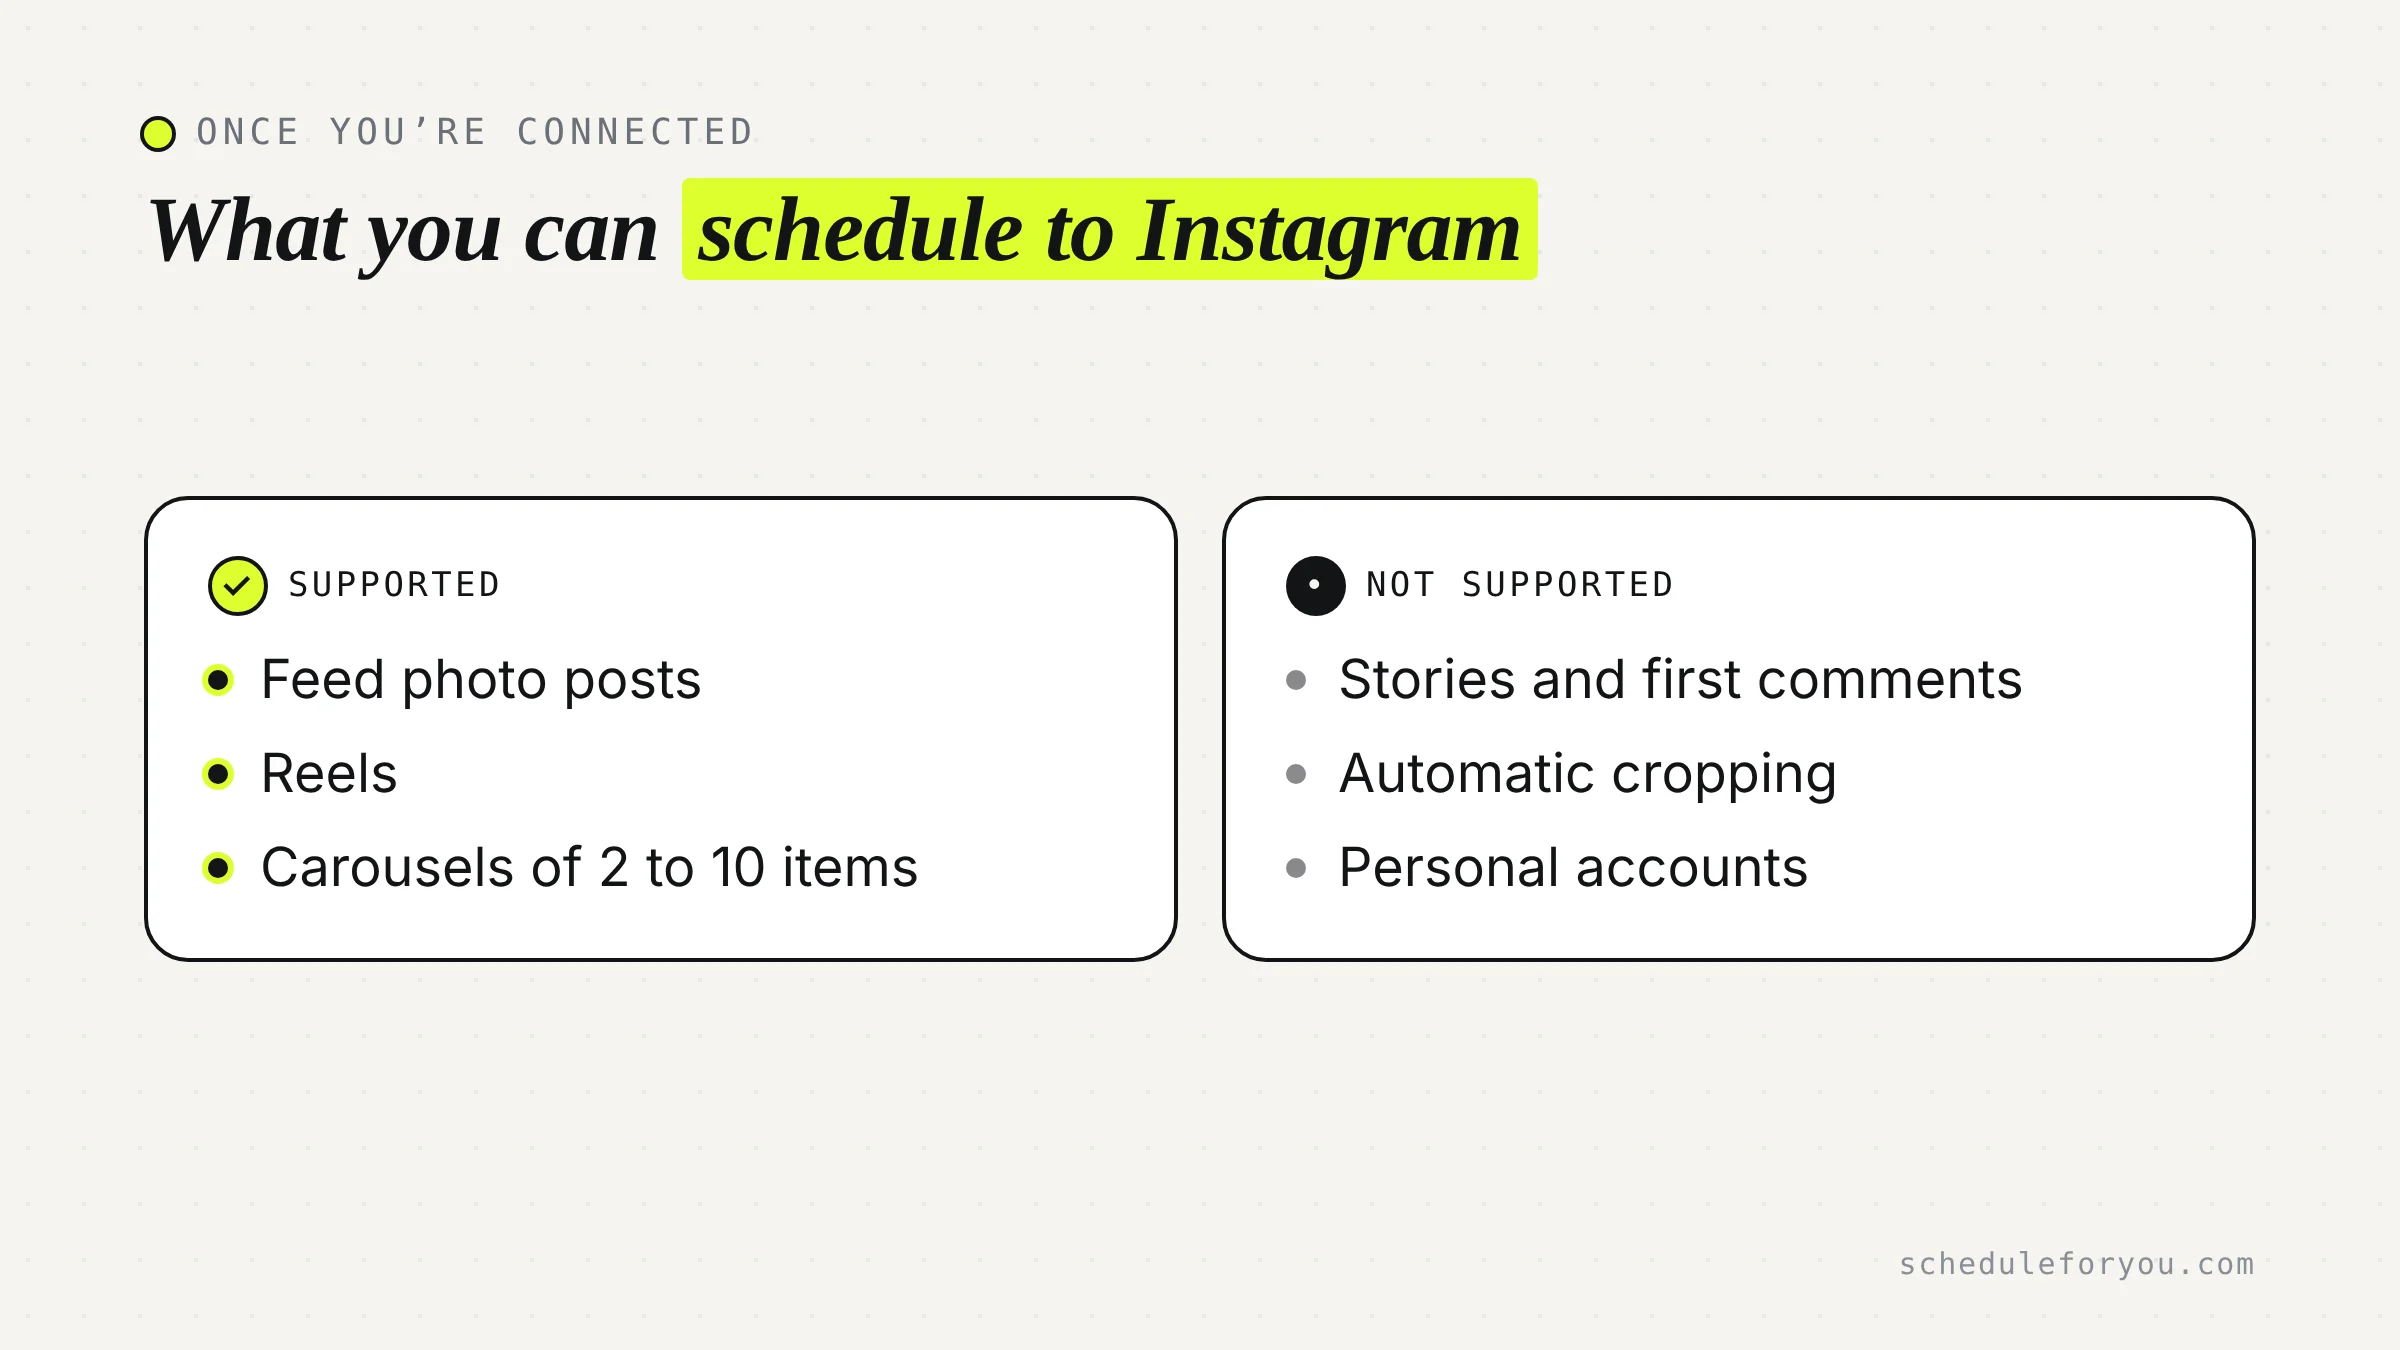
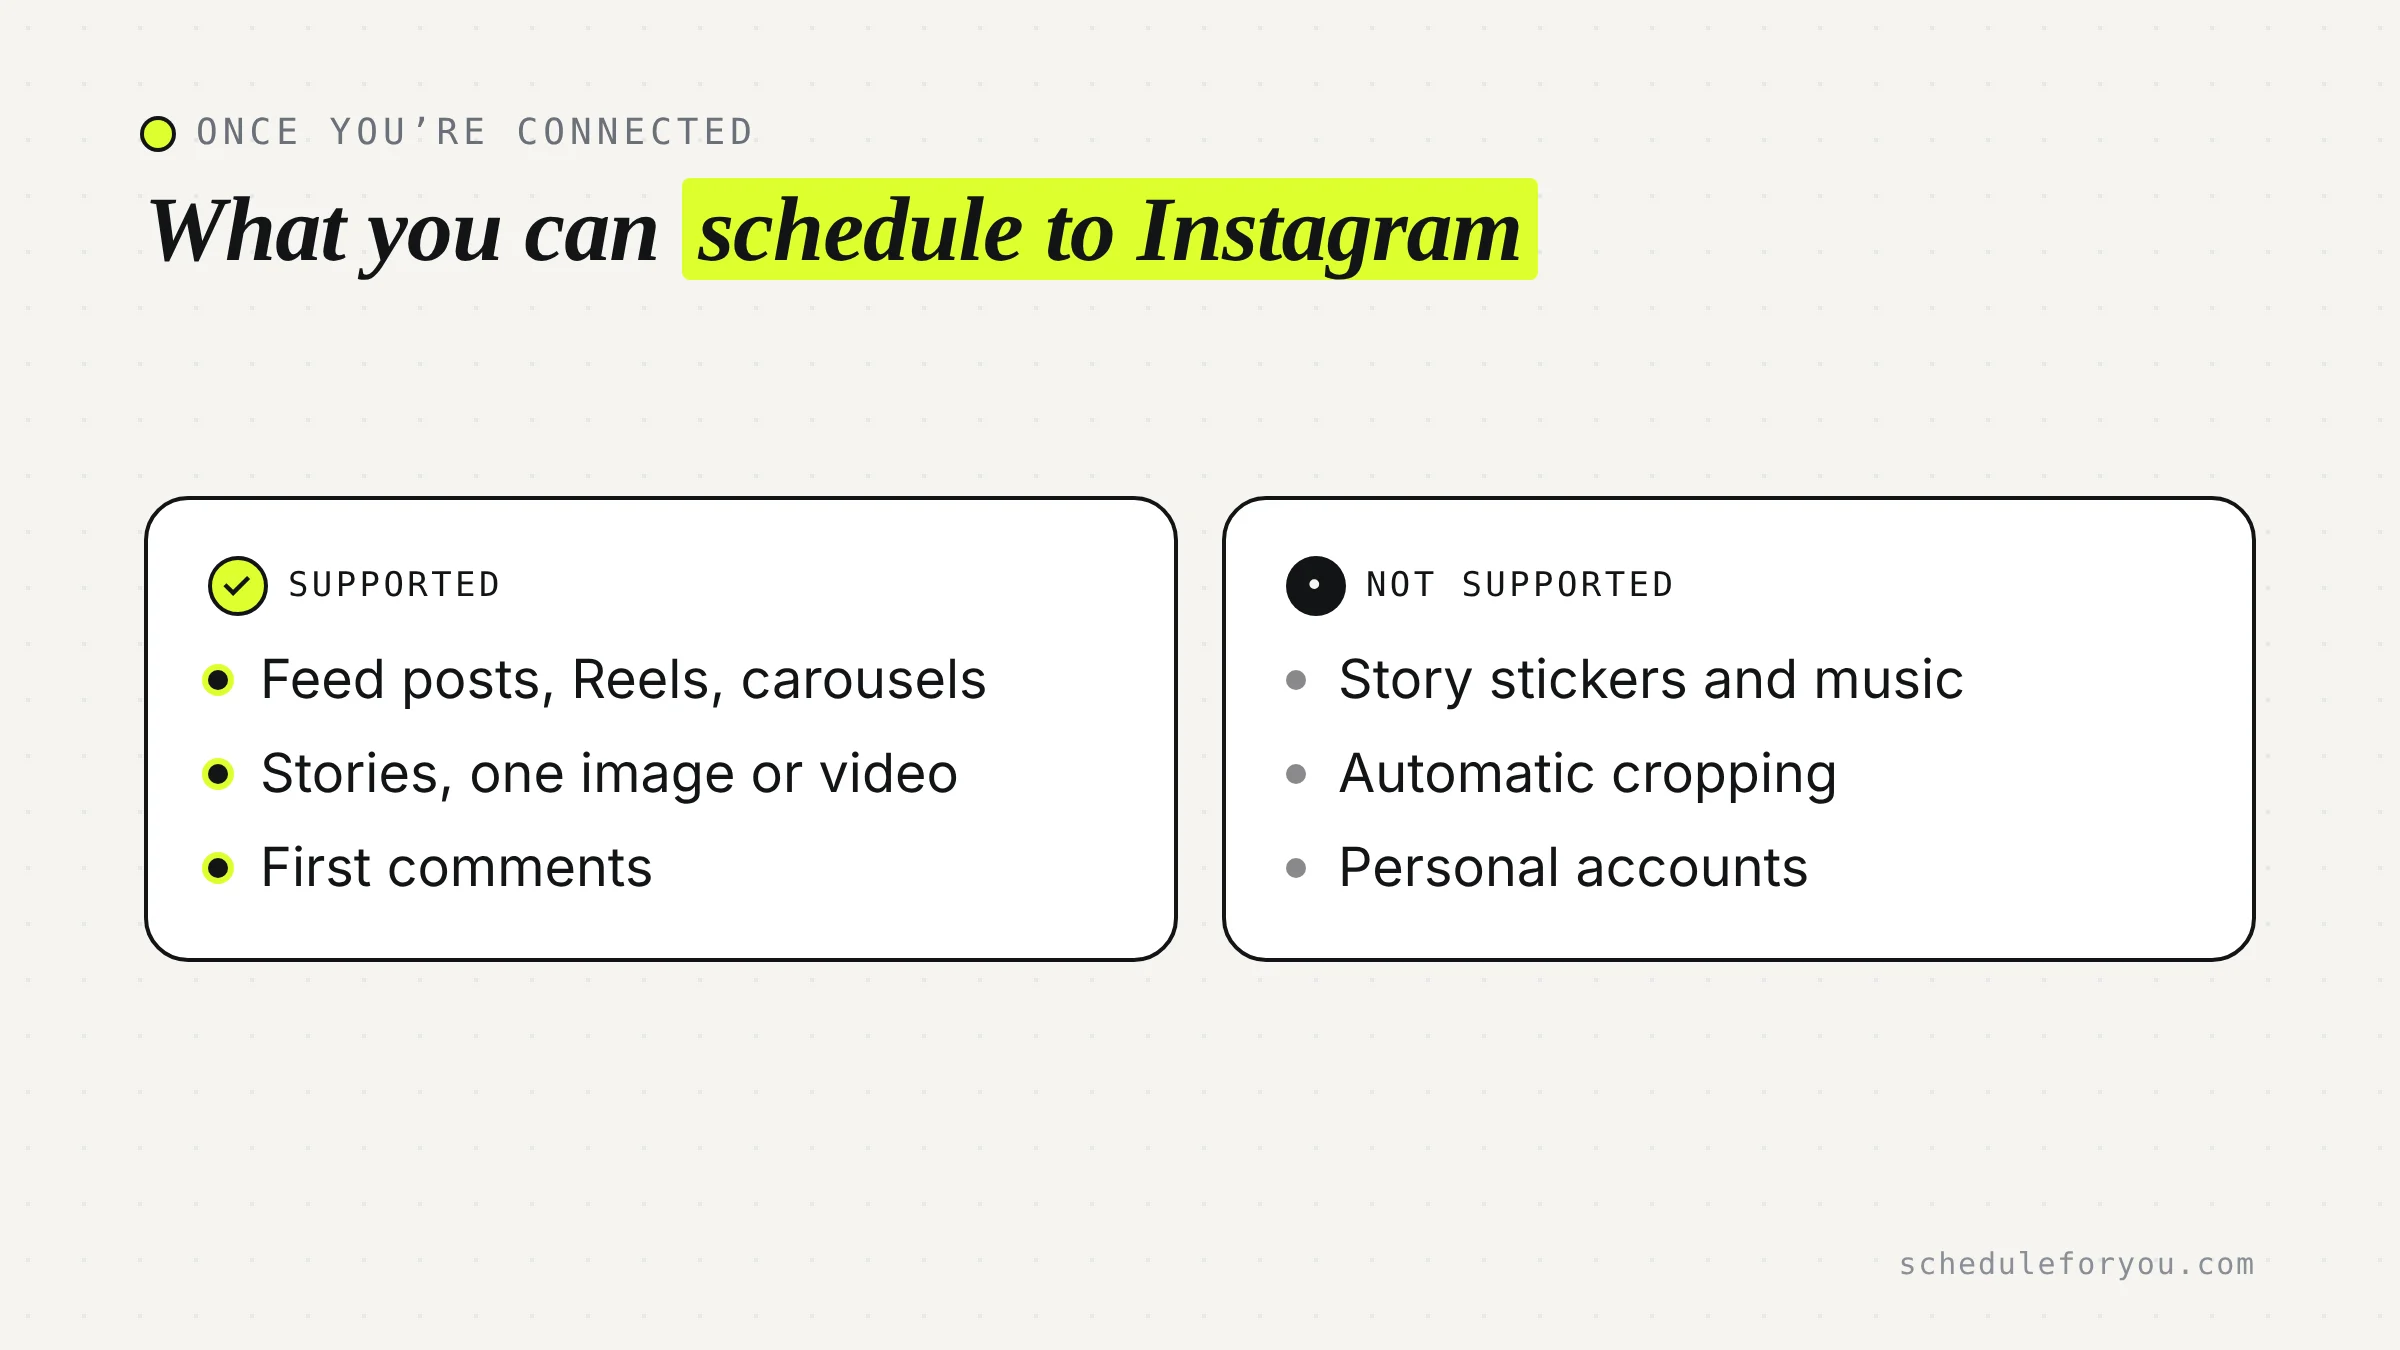
Blog: restore Stories and first-comment details in Instagram guides
Claude-Session: https://claude.ai/code/session_014GSf2GaimgWKaf4QXjsZVQ

diff --git a/content/blog/connect-instagram.md b/content/blog/connect-instagram.md
@@ -93,12 +93,13 @@ Knowing what's supported saves you from failed posts later.
 | One video | A Reel |
 | 2 to 10 images or videos (mixed is fine) | A carousel |
 | No media | Not possible: Instagram needs an image or video |
+| One image or video, with "Post as" set to Story | A Story (9:16, no caption) |
 
-Captions can be up to 2,200 characters, and the composer checks the limit live. You can write an Instagram-specific version of a caption while the same post goes to other platforms with their own versions.
+Captions can be up to 2,200 characters, and the composer checks the limit live. You can write an Instagram-specific version of a caption while the same post goes to other platforms with their own versions, and add a first comment to feed posts and Reels, posted by your account right after the post goes live.
 
 ### What Isn't Supported
 
-- **Stories and first comments.** Schedule For You publishes Instagram feed posts, Reels and carousels.
+- **Story stickers and music.** Stories go out as the one image or video you upload, with no caption, so polls, link stickers and Instagram's music library aren't available through Meta's API.
 - **Automatic cropping.** Images aren't cropped or resized, so they must already sit between 4:5 portrait and 1.91:1 landscape (Instagram's feed range at the time of writing). The [Instagram photo resizer](/tools/instagram-photo-resizer) has presets for each shape.
 - **Personal accounts.** Only Business and Creator accounts linked to a Page can be connected.
 
@@ -165,12 +166,12 @@ She connects all three in Schedule For You, which fits the Free plan's 3 account
 | | Meta Business Suite | Other schedulers | Schedule For You |
 |---|---|---|---|
 | Schedule Instagram posts | Yes | Usually | Yes, through Meta's official API |
-| Instagram Stories | Yes | Some | No |
+| Instagram Stories | Yes | Some | Yes, one image or video with no caption (no stickers or music) |
 | Facebook Pages | Yes | Usually | Yes |
 | X, LinkedIn, TikTok, Bluesky and others | No | Varies | Yes |
 | Cost | Free | Varies | Free for 3 accounts and up to 10 scheduled posts at a time, no card. Paid from $19 a month |
 
-Where we're not the best fit: if you only post to Instagram and Facebook and want Stories, Meta Business Suite covers that for free. Schedule For You makes sense when the same post also goes to Google Business Profile, LinkedIn, TikTok or other platforms.
+Where we're not the best fit: if you only post to Instagram and Facebook, Meta Business Suite covers both for free, and if you need Story stickers, polls or music, post that Story in the Instagram app. Schedule For You makes sense when the same post also goes to Google Business Profile, LinkedIn, TikTok or other platforms.
 
 Maya writes once and adjusts each version in the composer:
 
@@ -221,15 +222,20 @@ Both work the same for scheduling. Pick Business for a company or shop and Creat
 
 Yes. Each one counts as a connected account: 3 on Free, 15 on Solo and 100 on Studio. See [how to connect multiple Instagram accounts](/blog/connect-multiple-instagram-accounts).
 
+### Can I schedule Instagram Stories after connecting?
+
+Yes. Set "Post as" to Story in the composer and attach one image or video (9:16, no caption). Stickers, polls and music aren't available through Meta's API. Our guide to [scheduling Instagram Stories](/blog/schedule-instagram-and-facebook-stories) covers the details.
+
 ### What can I schedule to Instagram once it's connected?
 
-Feed photo posts, Reels and carousels of up to 10 images or videos, with captions up to 2,200 characters.
+Feed photo posts, Reels, carousels of up to 10 images or videos and Stories, with captions up to 2,200 characters and an optional first comment on feed posts and Reels.
 
 ## The Bottom Line
 
 ![Connect Instagram through Meta's own window: professional account, linked Page, full control](/images/blog/connect-instagram-bottom-line-1200x675.webp)
 
 - **Professional account:** free to switch, keeps your posts.
+- **What you can schedule:** feed posts, Reels, carousels and Stories.
 - **Facebook Page:** must be linked, and you need full control of it.
 - **Meta's login window:** approve every permission, never share your password.
 - **Errors:** almost always the account type, the Page link or your Page role.

diff --git a/content/blog/instagram-caption-character-limit.md b/content/blog/instagram-caption-character-limit.md
@@ -141,16 +141,16 @@ Take Sofia, who runs a small ceramics studio. Her Instagram captions run to abou
 | Separate caption per platform | No | Varies | Yes, one tab per platform from one draft |
 | Keeps line breaks | Yes, typed in the app | Varies | Yes |
 | Saved hashtag sets | No | Some | Yes |
-| Posts the first comment on Instagram | You do it by hand | Some | No, add it in the Instagram app |
+| Posts the first comment on Instagram | You do it by hand | Some | Yes, right after the post publishes |
 | Cost | Free | Varies | Free plan for 3 accounts and up to 10 scheduled posts at a time, no card |
 
-Where we're not the best fit: if you want hashtags posted automatically as Instagram's first comment, Schedule For You doesn't do that for Instagram. Put them in the caption, or add the comment yourself after the post goes live.
+Where we're not the best fit: Schedule For You doesn't write captions or suggest hashtags for you, and it doesn't read your reach or likes, so use Instagram Insights to see which captions work. If you only post to Instagram, the app's own scheduling may be enough.
 
 In Schedule For You, Sofia writes the full caption once, then opens the Threads, Bluesky and LinkedIn tabs to trim each version, while the counters show every platform's length against its limit:
 
 ![The Schedule For You composer with one caption tailored for Bluesky, X, LinkedIn and Instagram, with a counter for each](/images/blog/composer-four-platforms-1440x900.webp)
 
-Anything over a platform's limit is flagged before she can schedule it. See the [Instagram scheduler page](/instagram) for what's supported, and [how to customize captions for each platform](/blog/customize-captions-for-each-platform) for the full workflow.
+Anything over a platform's limit is flagged before she can schedule it. If she'd rather keep the caption clean, she puts her hashtags in a first comment instead, which Schedule For You adds right after the post publishes. See the [Instagram scheduler page](/instagram) for what's supported, and [how to customize captions for each platform](/blog/customize-captions-for-each-platform) for the full workflow.
 
 ## What to Do Next
 

diff --git a/content/blog/post-a-youtube-video-on-instagram.md b/content/blog/post-a-youtube-video-on-instagram.md
@@ -151,10 +151,10 @@ Take Kofi, who posts 3 Shorts a week to YouTube and the same clips as Reels on I
 | Schedule YouTube and Instagram | Two apps, two uploads | Many support both | Yes, from one upload |
 | YouTube title and description, separate Instagram caption | Yes, written twice | Varies | Yes, a version for each |
 | Reformat 16:9 to 9:16 | No | Some include editors | No, edit before you upload |
-| Add a Story link sticker | Instagram app only | Varies | No, add it in the Instagram app |
+| Story with a link sticker | Instagram app only | Varies | Stories yes (one image or video, no caption), but stickers aren't available through Meta's API, so add the link sticker in the app |
 | Cost | Free | Varies | Free plan for 3 accounts and up to 10 scheduled posts at a time, no card |
 
-Where we're not the best fit: Schedule For You doesn't reformat video, and the Story link sticker step stays in the Instagram app. It handles the Reel and the YouTube upload.
+Where we're not the best fit: Schedule For You doesn't reformat video, and it can't add link stickers, because stickers aren't available through Meta's API. A Story that needs a tappable YouTube link still goes out from the Instagram app. It handles the Reel and the YouTube upload.
 
 In Schedule For You, Kofi uploads each clip once, writes a YouTube title and description and a separate Instagram caption, and places both on the calendar a day apart:
 

diff --git a/content/blog/how-to-archive-posts-instagram.md b/content/blog/how-to-archive-posts-instagram.md
@@ -171,12 +171,13 @@ Take Elena, who runs a small clothing boutique. Each season she posts 12 product
 | Archive and unarchive posts | Yes, the only place to do it | No | No, use the Instagram app |
 | Plan posts on a calendar before they go live | No | Many | Yes |
 | Schedule feed posts, Reels and carousels | Yes, in the app | Varies | Yes |
+| Schedule Stories | No | Varies | Yes, one image or video each (no caption, stickers or music) |
 | Same post to Facebook, TikTok and more | Limited | Varies | Yes, with a separate caption per platform |
 | Cost | Free | Varies | Free plan for 3 accounts and up to 10 scheduled posts at a time, no card |
 
 Where we're not the best fit: Schedule For You doesn't archive, unarchive or edit tags on posts that are already live. Do that in the Instagram app. We help before publishing, not after.
 
-In Schedule For You, Elena lays the season's posts out on the calendar, drags them around until the order works, and only then lets them publish:
+In Schedule For You, Elena lays the season's posts out on the calendar, drags them around until the order works, and only then lets them publish. She can schedule Stories too, one image or video each, which then land in her Stories archive like any other Story:
 
 ![The Schedule For You calendar with a month of scheduled Instagram and other posts](/images/blog/calendar-month-1440x900.webp)
 

diff --git a/content/blog/how-to-change-profile-picture-on-instagram.md b/content/blog/how-to-change-profile-picture-on-instagram.md
@@ -160,7 +160,7 @@ On the calendar, the whole rebrand week sits in one view:
 
 ![The Schedule For You calendar with a week of rebrand posts across Instagram, Facebook and Google Business Profile](/images/blog/calendar-month-1440x900.webp)
 
-See the [Instagram scheduler](/instagram) for what you can schedule, and our guide on [how to schedule Instagram posts](/blog/how-to-schedule-instagram-posts) for the full walkthrough.
+Schedule For You publishes Instagram feed posts, Reels, carousels and Stories, so the announcement can go out as a post and a Story together. See the [Instagram scheduler](/instagram) for what you can schedule, and our guide on [how to schedule Instagram posts](/blog/how-to-schedule-instagram-posts) for the full walkthrough.
 
 ## What to Do Next
 
